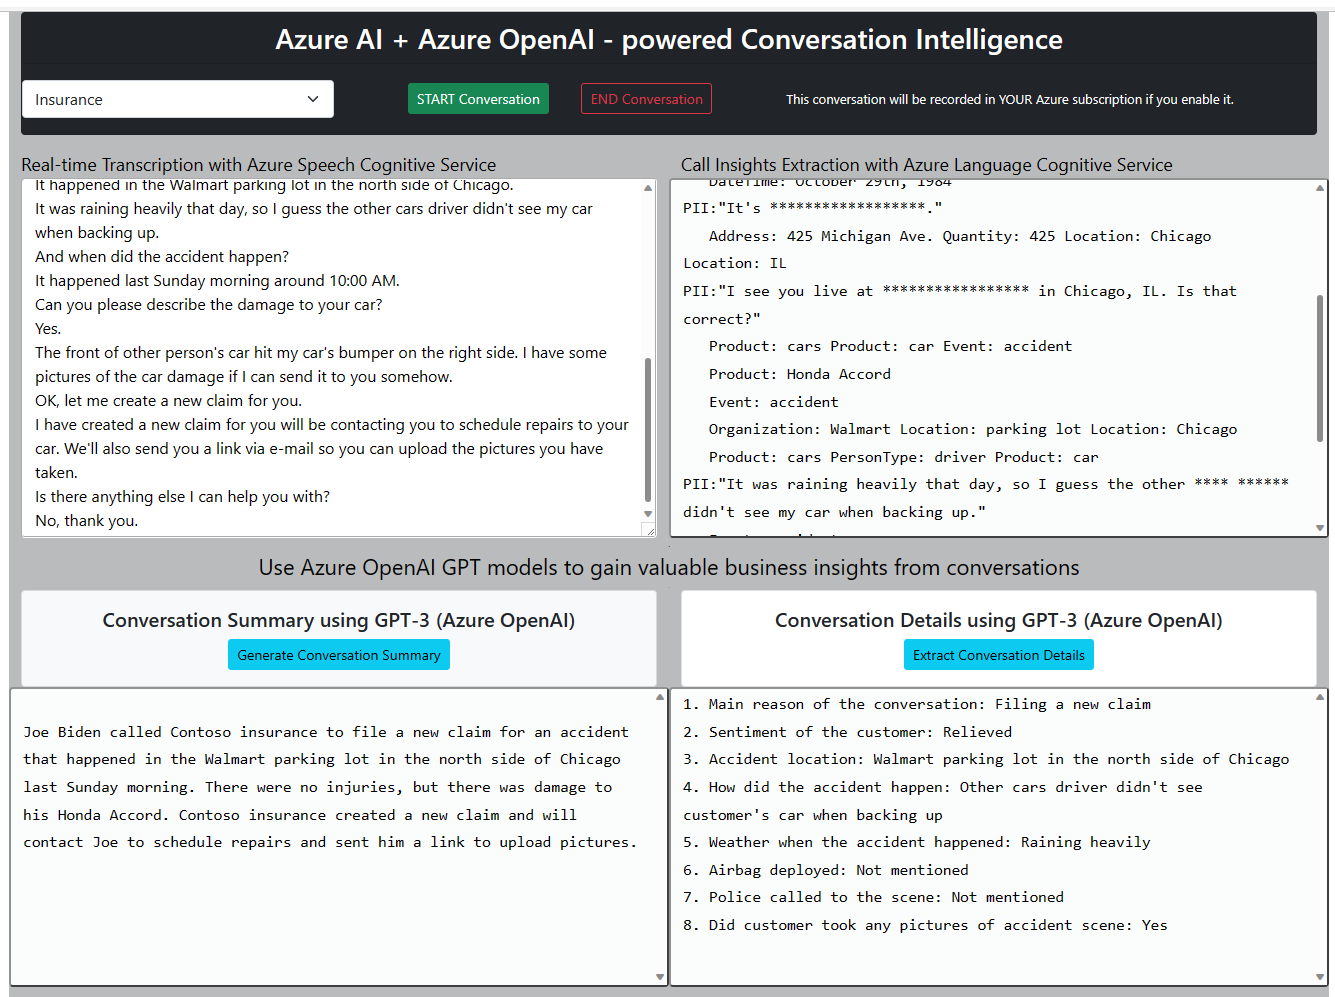
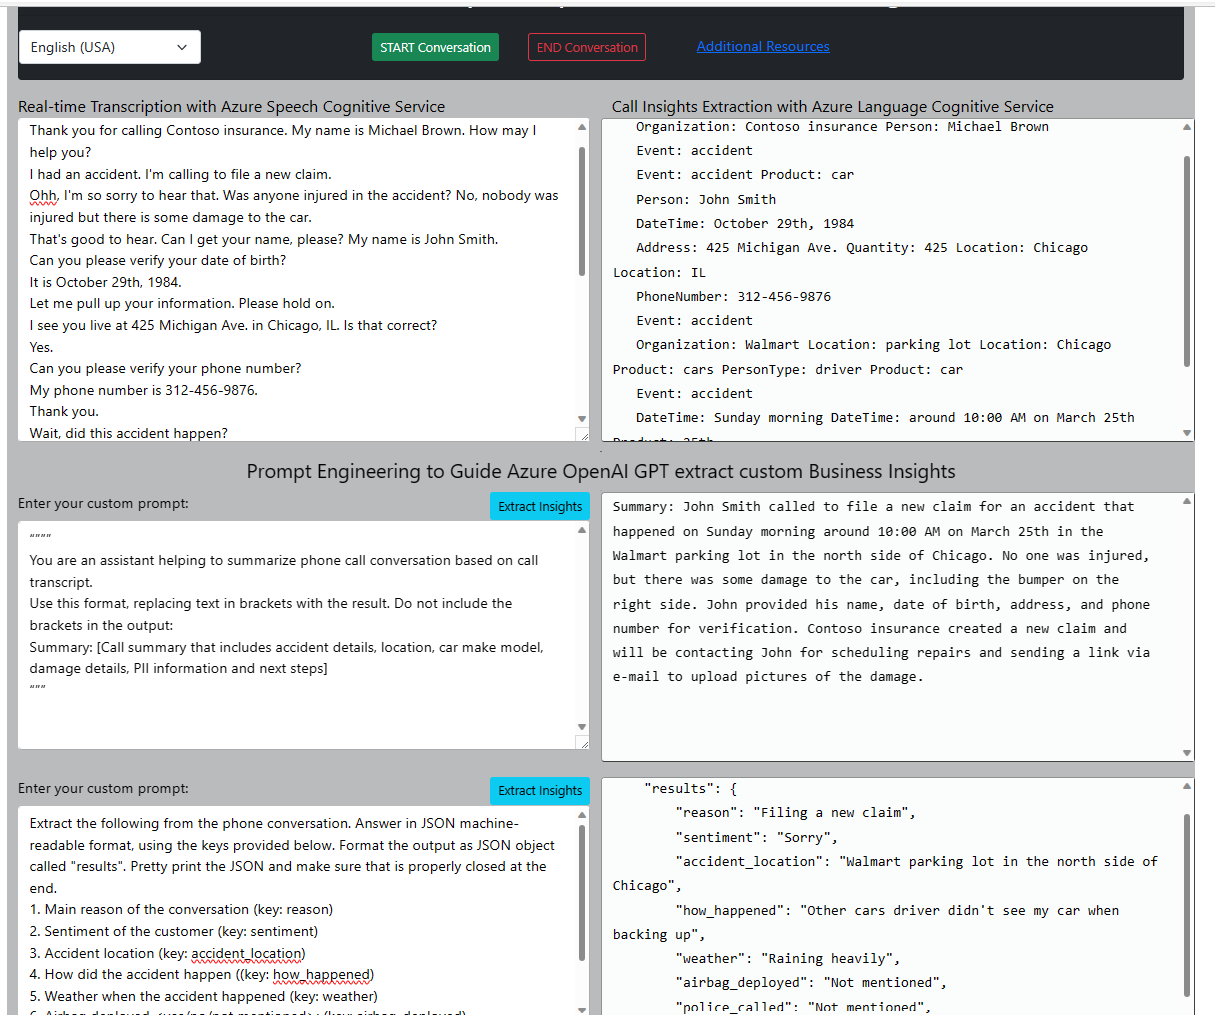
Added support for 25+ languages for global audience

diff --git a/call-intelligence-realtime/web-app-frontend/src/App.js b/call-intelligence-realtime/web-app-frontend/src/App.js
@@ -48,14 +48,13 @@ export default class App extends Component {
   }
 
   async sttFromMic() {
-      const tokenObj = await getTokenOrRefresh();
-      //const customSpeechEndpoint = process.env.CUSTOM_SPEECH_ENDPOINT_ID;
+      const tokenObj = await getTokenOrRefresh();      
       const speechConfig = speechsdk.SpeechConfig.fromAuthorizationToken(tokenObj.authToken, tokenObj.region);
-      speechConfig.speechRecognitionLanguage = 'en-US';
+      //speechConfig.speechRecognitionLanguage = 'en-US';         
 
-      //Setting below specifies custom speech model ID that is created using Speech Studio
-      //speechConfig.endpointId = 'd26026b7-aaa0-40bf-84e7-35054451a3f4';
+      var convLanguage = document.getElementById("formSelectConvLanguage").value;
 
+      speechConfig.speechRecognitionLanguage = convLanguage;   
       const audioConfig = speechsdk.AudioConfig.fromDefaultMicrophoneInput();
       recognizer = new speechsdk.SpeechRecognizer(speechConfig, audioConfig);
 
@@ -99,11 +98,11 @@ export default class App extends Component {
             }         
 
             //Display PII Detected               
-            const piiText = nlpObj.piiExtracted;
+            /*const piiText = nlpObj.piiExtracted;
             if(piiText.length > 21){
                 nlpText += "\n" + piiText; 
                 this.setState({ displayNLPOutput: nlpText.replace('<br/>', '\n') }); 
-            }                    
+            }      */              
         }
         else if (e.result.reason === ResultReason.NoMatch) {
             //resultText += `\nNo Match`
@@ -160,23 +159,46 @@ export default class App extends Component {
           <Container className="app-container">
              <div class="card text-white bg-dark mb-3 text-center" >
                 <h3 class="card-header">Azure AI + Azure OpenAI - powered Conversation Intelligence</h3>
-                <p> </p>
+                <p> </p>                
+                
                 <form class="row row-cols-lg-auto g-3 align-items-center text-white">     
-                    <div class="col-3">
-                        <select class="form-select" id="formSelectConvScenario">
-                            <option selected>Choose Conversation Scenario</option>
-                            <option value="1">Insurance</option>
-                            <option value="2">Banking</option>
-                            <option value="3">CapitalMarkets</option>
-                            <option value="4">Healthcare</option>
-                            <option value="5">General</option>
+                    <div class="col-2">                      
+                        <select class="form-select" id="formSelectConvLanguage">
+                            <option value="en-US" selected>Select Language</option>
+                            <option value="en-US">English (USA)</option>
+                            <option value="en-GB">English (UK)</option>
+                            <option value="es-ES">Spanish (Spain)</option>
+                            <option value="es-MX">Spanish (Mexico)</option>
+                            <option value="fr-CA">French (Canada)</option>
+                            <option value="fr-FR">French (France)</option>
+                            <option value="it-IT">Italian (Italy)</option>
+                            <option value="ja-JP">Japanese (Japan)</option>
+                            <option value="da-DK">Danish (Denmark)</option>
+                            <option value="wuu-CN">Chinese (Wu, Simplified)</option>
+                            <option value="hi-IN">Hindi (India)</option>
+                            <option value="gu-IN">Gujarati (India)</option>
+                            <option value="te-IN">Telugu (India)</option>
+                            <option value="de-DE">German (Germany)</option>
+                            <option value="el-GR">Greek (Greece)</option>
+                            <option value="ar-EG">Arabic (Egypt)</option>
+                            <option value="el-GR">Greek (Greece)</option>
+                            <option value="ar-IL">Arabic (Israel)</option>
+                            <option value="ar-SA">Arabic (Saudi Arabia)</option>
+                            <option value="cs-CZ">Czech (Czechia)</option>
+                            <option value="ko-KR">Korean (Korea)</option>
+                            <option value="nl-NL">Dutch (Netherlands)</option>
+                            <option value="pt-BR">Portuguese (Brazil)</option>
+                            <option value="pt-PT">Portuguese (Portugal)</option>
+                            <option value="sv-SE">Swedish (Sweden)</option>
+                            <option value="he-IL">Hebrew (Israel)</option>
                         </select>
+                        
                     </div>
-                    <div class="col-4">
+                    <div class="col-8">
                         <button type="button" class="btn btn-success btn-sm" onClick={() => this.sttFromMic()}>START Conversation</button> &emsp; &ensp;
-                        <button type="button" class="btn btn-outline-danger btn-sm" onClick={() => this.stopRecording()}>END Conversation</button>
-                    </div>   
-                    <div style={{ color: 'white', fontSize: 13, display: 'flex', justifyContent:'center', alignItems:'center' }}>This conversation will be recorded in YOUR Azure subscription if you enable it.</div>     
+                        <button type="button" class="btn btn-outline-danger btn-sm" onClick={() => this.stopRecording()}>END Conversation</button>&emsp; &ensp;&emsp; &ensp;
+                        <a href="https://azureopenaicallintel.z13.web.core.windows.net/" target="_blank" rel="noopener noreferrer">Additional Resources</a>
+                    </div>                      
                 </form>
                 <p> </p>
             </div>
@@ -204,39 +226,8 @@ export default class App extends Component {
                 </div>
             </div>    
               
-              <div style={{ color: 'black', fontSize: 8, display: 'flex', justifyContent:'center' }}>.</div>
-              <div style={{ color: 'black', fontSize: 22, display: 'flex', justifyContent:'center' }}>Use Azure OpenAI GPT models to gain valuable business insights from conversations</div>
-              <div style={{ color: 'black', fontSize: 5, display: 'flex', justifyContent:'center' }}>.</div>
-              <div class="row text-white">
-                <div class="col-sm-6">
-                    <div class="card text-center text-dark bg-light">
-                    <div class="card-body">
-                        <h5 class="card-title">Conversation Summary using GPT-3 (Azure OpenAI)</h5>                     
-                        <button type="button" class="btn btn-info btn-sm" onClick={() => this.gptSummarizeText(this.state.displayText)}>Generate Conversation Summary</button>
-                    </div>
-                    </div>
-                </div>
-                <div class="col-sm-6">
-                    <div class="card text-center text-dark ">
-                    <div class="card-body">
-                        <h5 class="card-title">Conversation Details using GPT-3 (Azure OpenAI)</h5>
-                        <button type="button" class="btn btn-info btn-sm" onClick={() => this.gptParseExtractInfo(this.state.displayText)}>Extract Conversation Details</button>
-                    </div>
-                    </div>
-                </div>
-              </div>
-              
-              <div className="row"> 
-                  <div className="col-6 nlpoutput-display rounded" style={{ height: 300}}>
-                        <code style={{"color":"black"}}>{this.state.gptSummaryText}</code>
-                  </div>
-                  <div className="col-6 nlpoutput-display rounded " style={{ height: 300}}>                      
-                      <code style={{"color":"black"}}>{this.state.gptExtractedInfo}</code>
-                  </div>
-              </div>   
-            
               <div style={{ color: 'black', fontSize: 10, display: 'flex', justifyContent:'center' }}>.</div>
-              <div style={{ color: 'black', fontSize: 22, display: 'flex', justifyContent:'center' }}>Prompt Engineering to Guide GPT-3 extract custom Business Insights</div>
+              <div style={{ color: 'black', fontSize: 22, display: 'flex', justifyContent:'center' }}>Prompt Engineering to Guide Azure OpenAI GPT extract custom Business Insights</div>
               <div style={{ color: 'black', fontSize: 5, display: 'flex', justifyContent:'center' }}>.</div>
               <div class="row text-dark">             
                 <div class="col-6">

diff --git a/README.md b/README.md
@@ -16,7 +16,10 @@ This solution accelerator has two main components:
     * Conversation summarization using Azure OpenAI Service
     * Extract business insights & conversation details using Azure OpenAI Service
 
-    **To setup and run this solution component**, please refer to [Real-time Intelligence](call-intelligence-realtime/README.md) for step-by-step instructions.
+This is a web-based app that enables you to simulate Agent-Customer interactions (in any line of business) and shows the power of Azure AI to augment the human and acts as a **very effective copilot** (screenshot below)
+<img src="call-intelligence-realtime/common/images/sampleoutputaiintelligence-main.PNG" align="center"/>
+
+**To setup and run this solution component**, please refer to [Real-time Intelligence](call-intelligence-realtime/README.md) for step-by-step instructions.
 
 2. **`Post-call Analytics`** component: Post-call analysis to create insights into customer conversations to improve understanding and support continuous improvement of call handling, optimization of quality assurance and compliance control as well as other insight driven optimizations. Key technical components of this part of the accelerator are:
     * Batch speech-to-text using Azure Speech: Transcribe large amounts of audio files asynchronously including speaker diarization and is typically used in post-call analytics scenarios. Diarization is the process of recognizing and separating speakers in mono channel audio data.    
